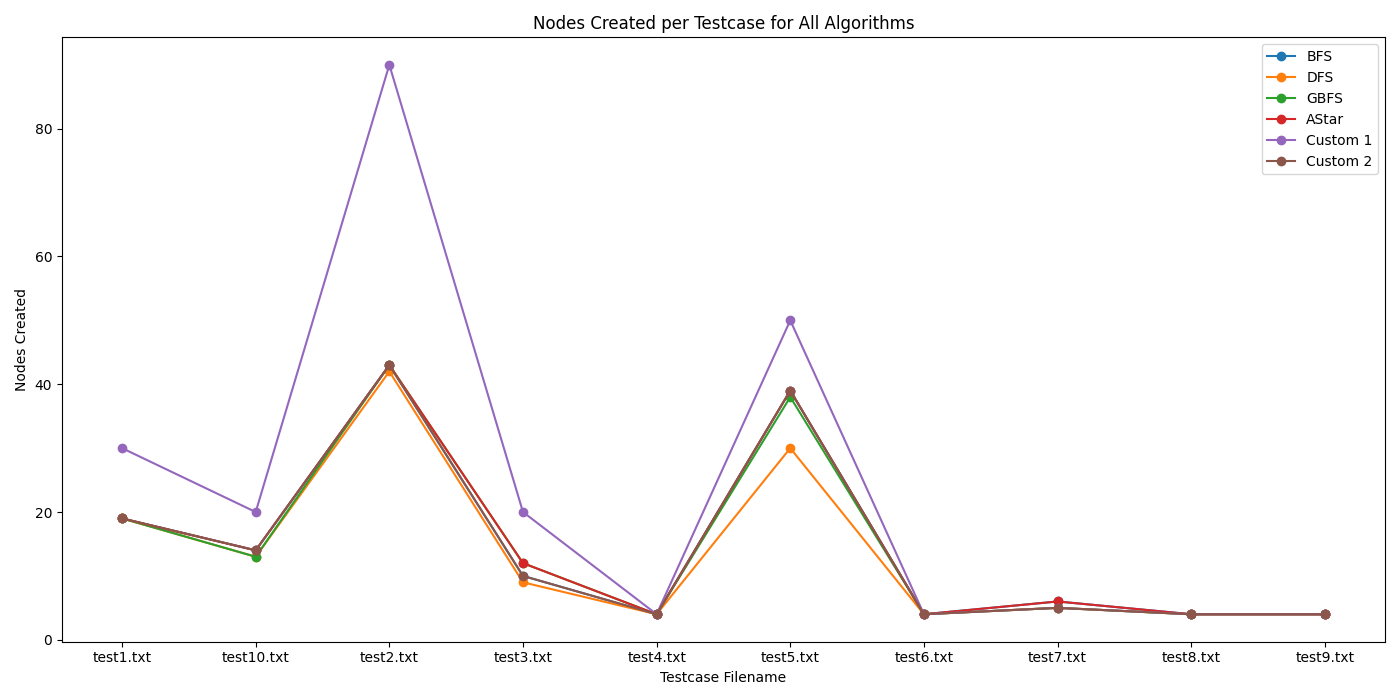
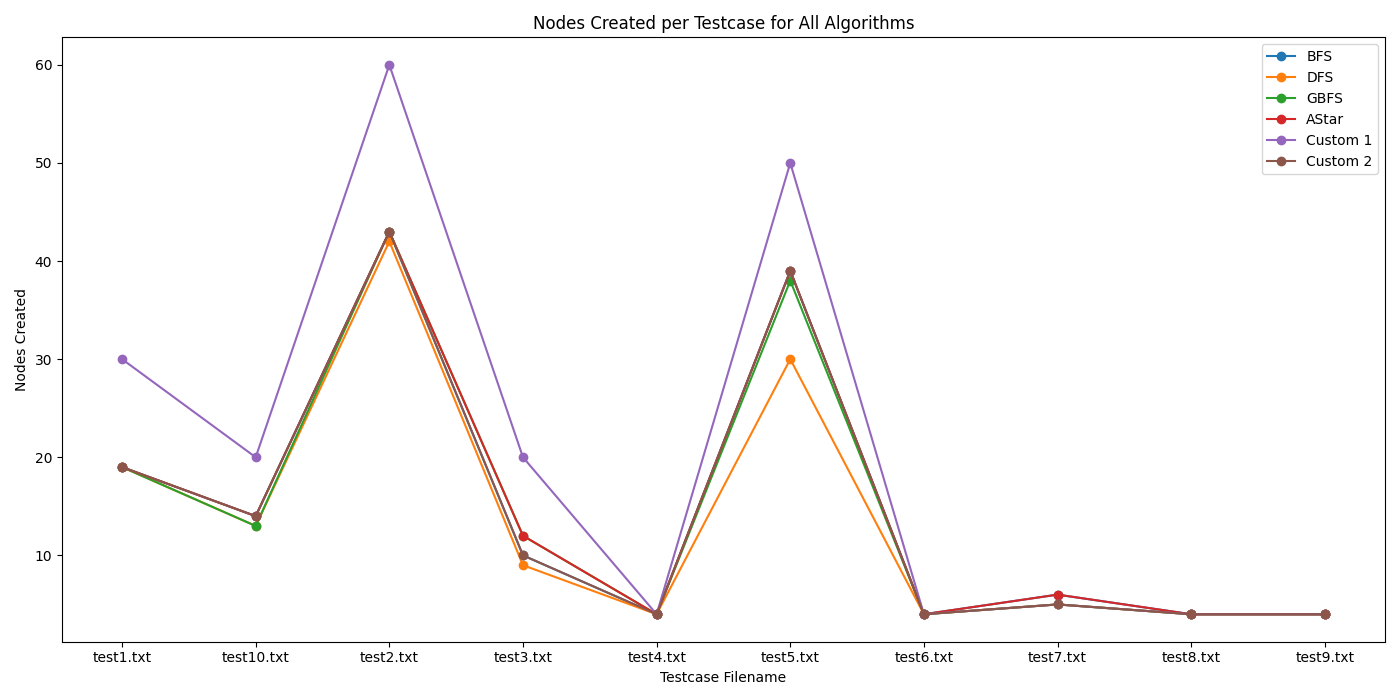
fix benchmark

diff --git a/benchmark.py b/benchmark.py
@@ -32,8 +32,8 @@ class Benchmark:
                 cost = 30
                 nodes_created = 30
             elif filename == "test2.txt":
-                cost = 60
-                nodes_created = 90
+                cost = 90
+                nodes_created = 60
             elif filename == "test5.txt":
                 cost = 50
                 nodes_created = 50
